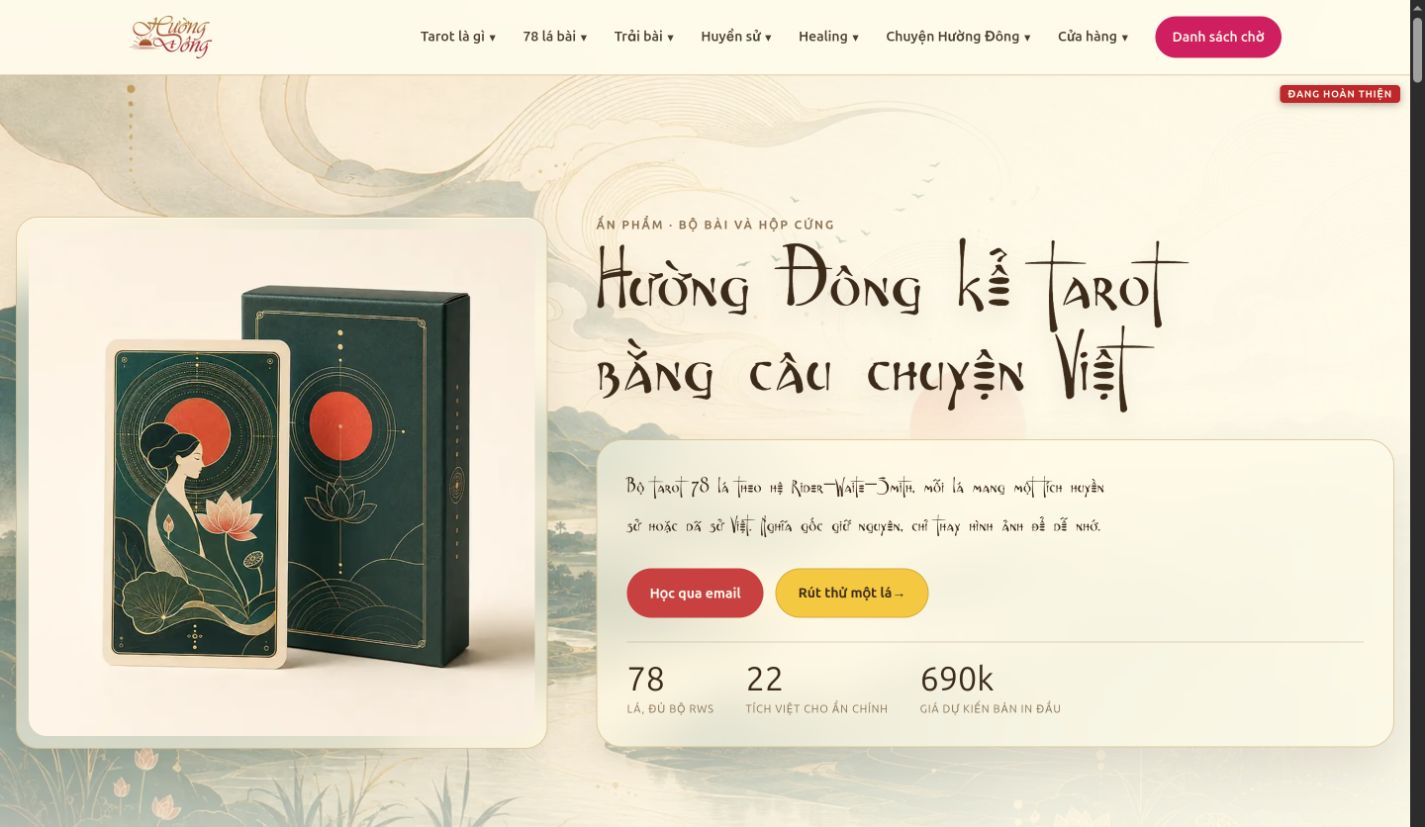
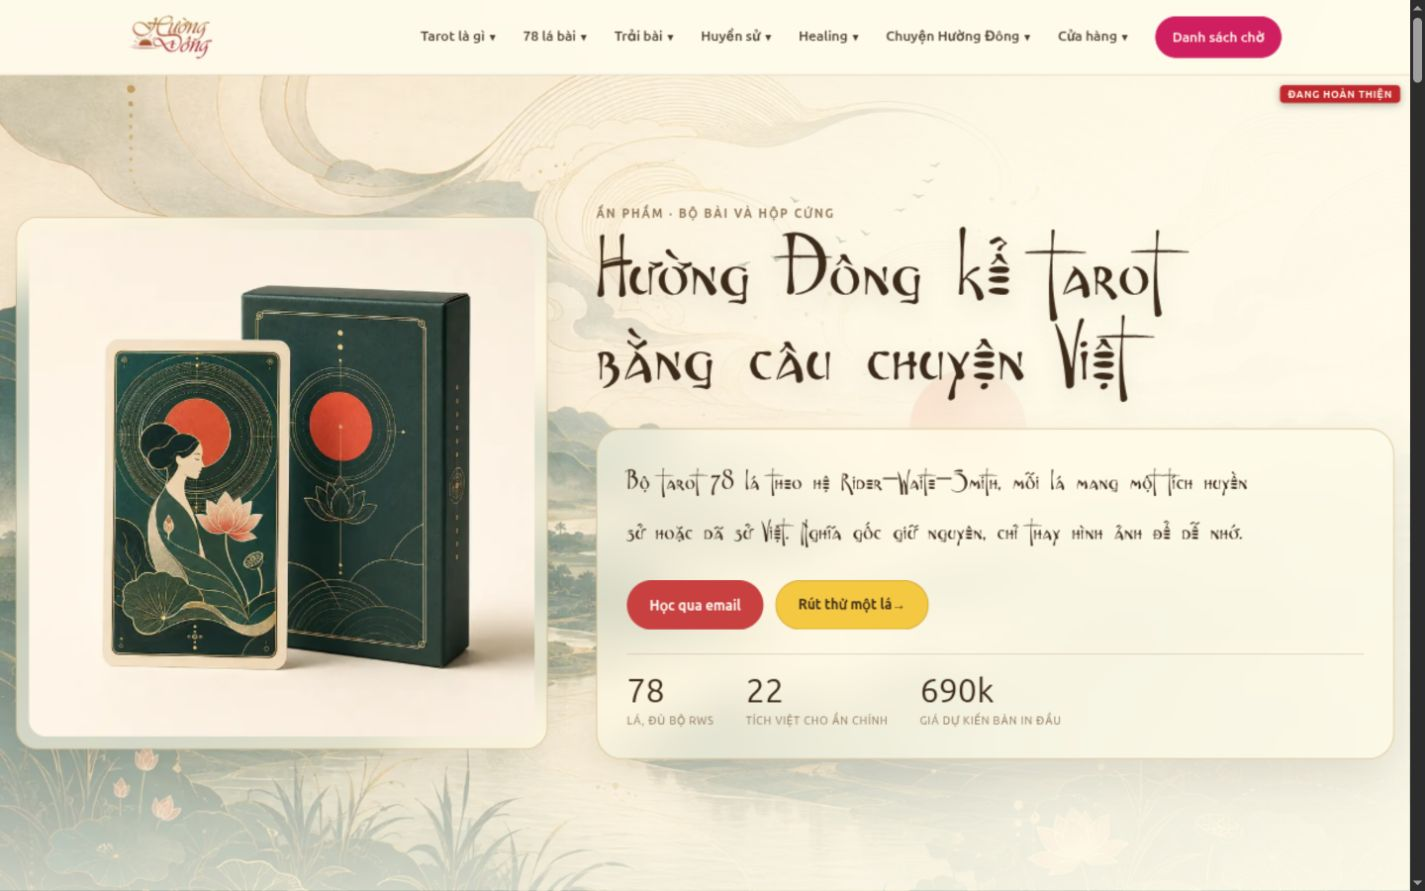
refactor: enlarge hero subheadline only

diff --git a/public/assets/css/main.css b/public/assets/css/main.css
@@ -93,7 +93,7 @@ h1,h2,h3,h4,p{margin-top:0}h1,h2,h3,h4{font-family:var(--display);letter-spacing
   color: var(--hero-warm-brown);
   background: none;
   font-family: var(--script);
-  font-size: clamp(20.8px, 1.625vw, 23.4px);
+  font-size: clamp(27.04px, 2.1125vw, 30.42px);
   font-weight: 400;
   line-height: 1.65;
   letter-spacing: .01em;
@@ -1979,7 +1979,7 @@ body::before {
 .home-page .hero h1{margin:0 0 22px;padding:0;color:var(--hero-warm-brown);border-radius:0;background:none;font-family:var(--script);font-size:clamp(68px,6.6vw,104px);font-style:normal;font-weight:400;line-height:.9;letter-spacing:.005em;text-transform:none;text-wrap:balance;-webkit-text-fill-color:currentColor;-webkit-text-stroke:0;text-shadow:0 10px 22px rgb(61 43 26 / 12%)}
 .home-page .hero h1 .hero-headline-accent{color:inherit;-webkit-text-fill-color:currentColor}
 .home-page .hero .eyebrow{color:var(--hero-label);font-family:var(--hero-ui)}
-.home-page .hero .hero-subheadline{max-width:48ch;margin-bottom:0;color:var(--hero-warm-brown);background:none;font-family:var(--script);font-size:clamp(20.8px,1.625vw,23.4px);font-style:normal;font-weight:400;line-height:1.65;letter-spacing:.01em;text-transform:none;text-wrap:pretty;-webkit-text-fill-color:currentColor;-webkit-text-stroke:0;text-shadow:none}
+.home-page .hero .hero-subheadline{max-width:48ch;margin-bottom:0;color:var(--hero-warm-brown);background:none;font-family:var(--script);font-size:clamp(27.04px,2.1125vw,30.42px);font-style:normal;font-weight:400;line-height:1.65;letter-spacing:.01em;text-transform:none;text-wrap:pretty;-webkit-text-fill-color:currentColor;-webkit-text-stroke:0;text-shadow:none}
 .home-page .hero-actions{gap:12px;margin:22px 0 0;color:var(--hero-warm-brown);font-family:var(--hero-ui);font-size:14px}
 .home-page .hero-actions a{border-bottom:0}
 .home-page .hero-actions .button.brass{background:var(--hero-coral);color:#FFFDF5}

diff --git a/public/assets/css/critical.css b/public/assets/css/critical.css
@@ -259,7 +259,7 @@ h3 { font-size: 30px; line-height: 1.12; }
   color: var(--hero-warm-brown);
   font-family: var(--script);
   font-weight: 400;
-  font-size: clamp(20.8px, 1.625vw, 23.4px);
+  font-size: clamp(27.04px, 2.1125vw, 30.42px);
   line-height: 1.65;
   letter-spacing: .01em;
   text-wrap: pretty;

diff --git a/design-qa.md b/design-qa.md
@@ -2,7 +2,7 @@
 
 - Source visual truth: Hero Fontasia đã duyệt trong
   `qa/hero-after-1440x900.png`, với yêu cầu mới đổi headline/subheadline sang
-  `#3D2B1A` và tăng riêng subheadline 30%.
+  `#3D2B1A` và tăng thêm riêng subheadline 30% so với preview PR #58.
 - Implementation evidence: local build captured at 1440×900 và 390×844 trong
   `qa/hero-warm-brown-*.png`.
 - State: Home, top of page, entrance complete, no form submission.
@@ -11,18 +11,18 @@
 
 Ảnh Hero Fontasia trước thay đổi và bản local mới được mở để đối chiếu cùng
 viewport desktop. Bản mới chỉ thay typography được yêu cầu: headline và
-subheadline cùng nâu ấm, subheadline tăng đúng 30%; bố cục, copy, ảnh, CTA và
+subheadline cùng nâu ấm, subheadline tăng thêm đúng 30%; bố cục, copy, ảnh, CTA và
 stats không thay đổi.
 
 No P0/P1/P2 visual defect remains:
 
 - Headline dùng Fontasia `95.04px` ở 1440px, màu tính toán
   `rgb(61, 43, 26)`, không còn stroke champagne/coral; hai dòng không bị cắt.
-- Subheadline dùng Fontasia, màu `rgb(61, 43, 26)`, tăng từ mức
-  `16–18px` lên `20.8–23.4px` đúng 30%, không stroke hoặc bóng.
+- Subheadline dùng Fontasia, màu `rgb(61, 43, 26)`, tăng từ preview
+  `20.8–23.4px` lên `27.04–30.42px` đúng 30%, không stroke hoặc bóng.
 - Desktop Hero measures 824px below the 76px header and fits the 1440×900
   viewport. The computed 537.6/806.4px columns equal 40/60.
-- Mobile 390×844 giữ copy trước ảnh; headline `54.6px`, subheadline `20.8px`,
+- Mobile 390×844 giữ copy trước ảnh; headline giữ nguyên, subheadline `27.04px`,
   CTA không tràn và overflow ngang bằng `0`.
 - Primary coral CTA contrast is 4.84:1; secondary yellow CTA is 8.48:1; body
   copy on cream is 12.72:1. The requested caption brown remains visually clear.

diff --git a/HANDOVER.md b/HANDOVER.md
@@ -234,19 +234,19 @@ Branch: `feat/hero-warm-brown-typography`, tách từ `origin/main` sau khi PR #
 1. Giữ nguyên nội dung, Fontasia Regular 400 và cỡ headline hiện tại.
 2. Headline đổi toàn bộ sang nâu ấm `#3D2B1A`; bỏ stroke champagne/coral để
    cụm “câu chuyện Việt” kế thừa cùng màu.
-3. Subheadline giữ Fontasia và màu `#3D2B1A`, tăng đúng 30% từ
-   `clamp(16px, 1.25vw, 18px)` thành
-   `clamp(20.8px, 1.625vw, 23.4px)`.
+3. Subheadline giữ Fontasia và màu `#3D2B1A`. Sau phản hồi trên preview PR #58,
+   chỉ dòng này tăng thêm đúng 30% từ `clamp(20.8px, 1.625vw, 23.4px)` thành
+   `clamp(27.04px, 2.1125vw, 30.42px)`; headline không tăng thêm.
 4. Eyebrow, CTA, stats, ảnh sản phẩm, overlay và lưới 40/60 không đổi.
 5. Critical CSS và main stylesheet được đồng bộ; test khóa màu, font, cỡ chữ và
    trạng thái không stroke.
 
 ### QA
 
-- 1440×900: headline `95.04px`, subheadline `23.4px`, Hero cao 824px, không
-  overflow ngang, toàn bộ nội dung nằm trong viewport chính.
-- 390×844: headline `54.6px`, subheadline `20.8px`, CTA xếp dọc, ảnh nằm sau
-  copy, overflow ngang `0`.
+- 1440×900: headline giữ nguyên `95.04px`, subheadline `30.42px`; Hero cao
+  `824px`, panel kết thúc ở `766.84px`, overflow ngang `0`.
+- 390×844: headline giữ nguyên `54.6px`, subheadline `27.04px`; panel kết thúc
+  ở `758.2px`, CTA vẫn nằm trước ảnh và overflow ngang `0`.
 - Console không có lỗi/cảnh báo. Ảnh QA nằm tại
   `qa/hero-warm-brown-1440x900.png` và `qa/hero-warm-brown-390x844.png`.
 
